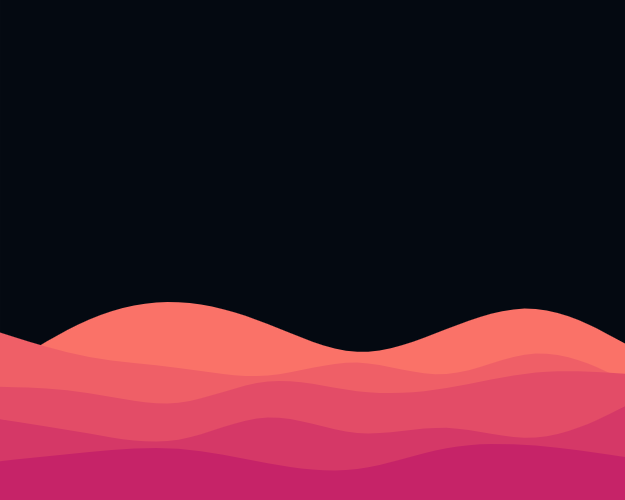
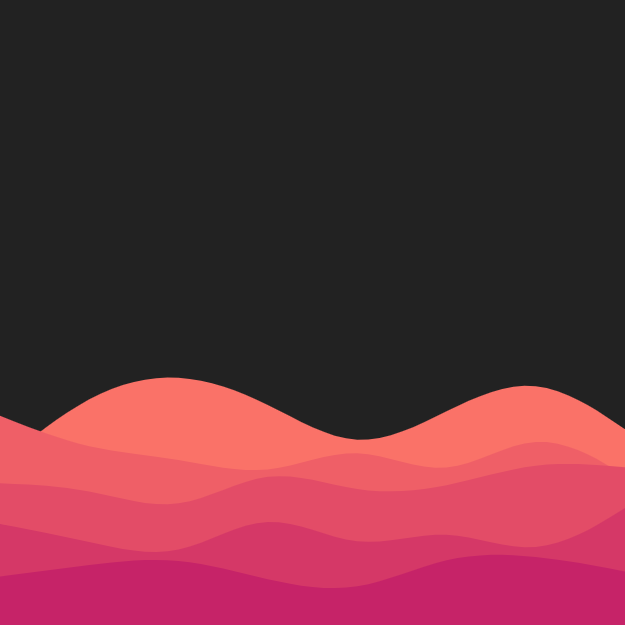
backgroundfixbug

diff --git a/pages/index.js b/pages/index.js
@@ -42,7 +42,7 @@ const [basemap,setBasemap] = useState("dark-gray-vector");
     
       <Head>
         <title>Satellite Viewer</title>
-        <link rel="icon" href="/favicon.ico" type="image/svg+xml"/>
+        <link rel="icon" href="/favicon.ico" />
       </Head>
       
       

diff --git a/styles/Index.module.css b/styles/Index.module.css
@@ -12,7 +12,7 @@
   font-size: '25px';
  /*  transition-duration: 5s; */
  
- background-image: url("../styles/backgroundDark.svg");
+ background: url("../styles/backgroundDark.svg");
  background-size: cover;
  transition: ease-in 0.5s;
   
